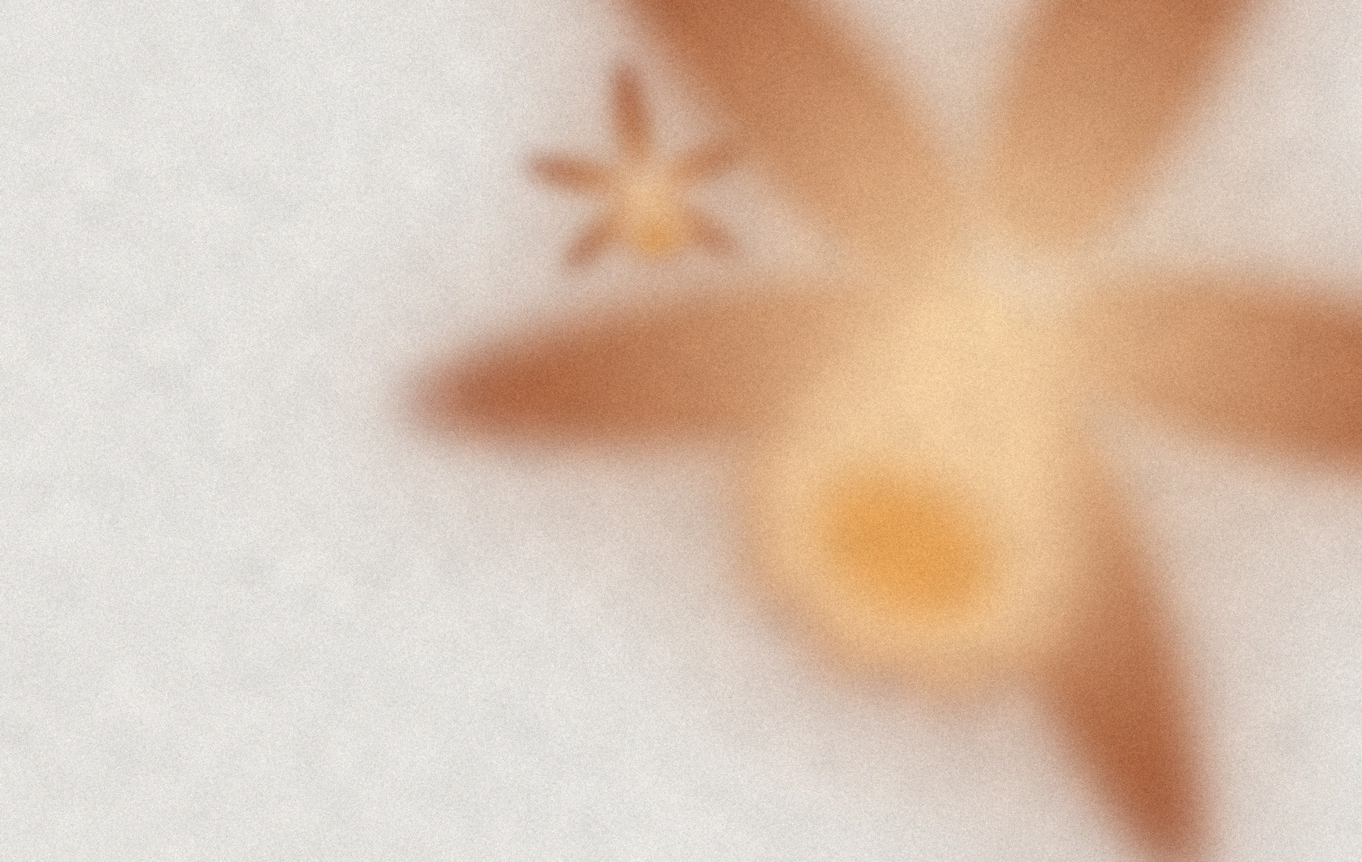
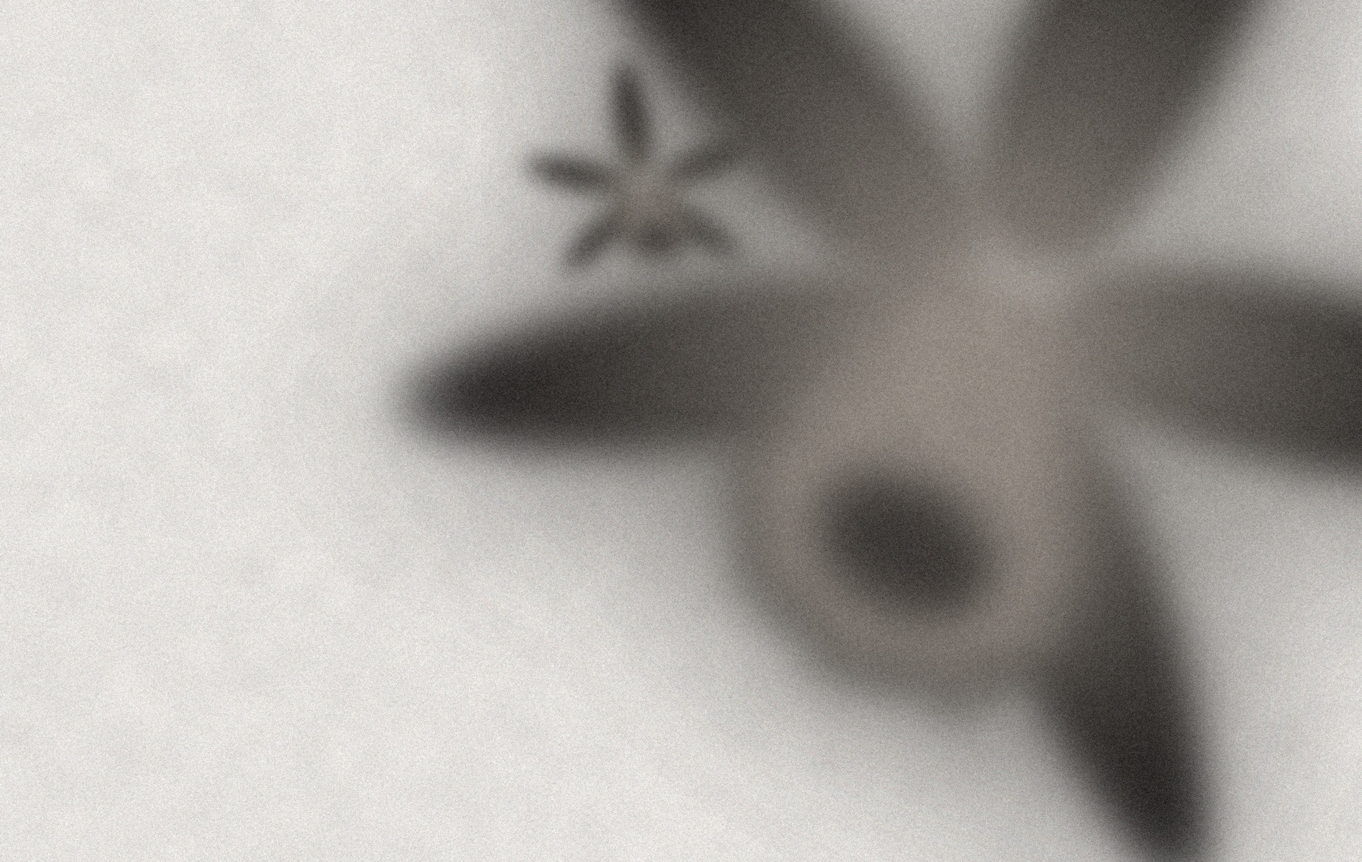
Soap Ebony: the flower in charcoal with the same Bloom treatment as the other three
Claude-Session: https://claude.ai/code/session_01Psd6wLDi15Gf4F1fXEFmxS

diff --git a/vanilla-shop/studies/soap/bloom-duo/duo.py b/vanilla-shop/studies/soap/bloom-duo/duo.py
@@ -7,7 +7,7 @@ O='/tmp/claude-0/-home-user-PersonalEventPlanner305App/0712b206-ea71-562e-9a83-4
 K=bloom.K; W,H=150,95                       # front 136 x 81 + 7 mm round it
 CW={'vanilla':('#B5620F','#F8D79A','#D9822A','#F7EFDC'),
     'rosette':('#A8324E','#F8D3D6','#E08A6A','#F8EDE6'),
-    'ebony':  ('#8E3A1A','#F3CFA2','#E0913A','#E4E2DE'),
+    'ebony':  ('#060505','#958D85','#1E1B1A','#E4E2DE'),
     'aloe':   ('#2F5A2D','#CFE0A8','#C9A33A','#F2F1E2')}
 # (cx, cy, R, rotation) for the big and the small flower, in front mm
 LAY={'vanilla':((104,30,74,-14),(64,14,15,22)),
@@ -24,7 +24,8 @@ for k in (sys.argv[1:] or CW):
     g=CW[k][3]; base=Image.new('RGBA',(W*K,H*K),tuple(int(v) for v in hx(g))+(255,))
     (b,s)=LAY[k]
     sm,p=layer(k,"s",*s,blur=2.2); base.alpha_composite(sm,p) if False else base.paste(sm,p,sm)
-    bg,p=layer(k,"b",*b,blur=5.2); base.paste(bg,p,bg); base.paste(bg,p,bg.getchannel("A").point(lambda v:int(v*0.5)))   # a second pass deepens the colour
+    bg,p=layer(k,"b",*b,blur=5.2); base.paste(bg,p,bg); base.paste(bg,p,bg.getchannel("A").point(lambda v:int(v*0.5)))
+    if k=="ebony": base.paste(bg,p,bg.getchannel("A").point(lambda v:int(v*0.6)))   # black needs one more pass to sit as strong as the colours   # a second pass deepens the colour
     # a wide halo of the whole picture laid back over it, so the light bleeds like wet paint
     a=np.asarray(base.convert('RGB')).astype(np.float32); h,w=a.shape[:2]
     rng=np.random.default_rng(11)
